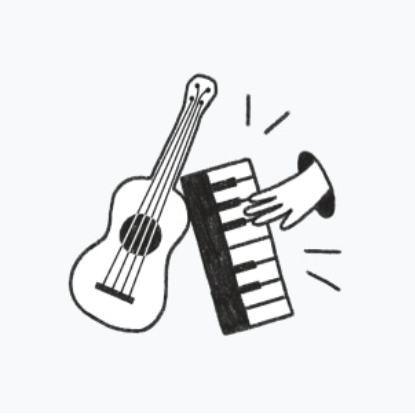
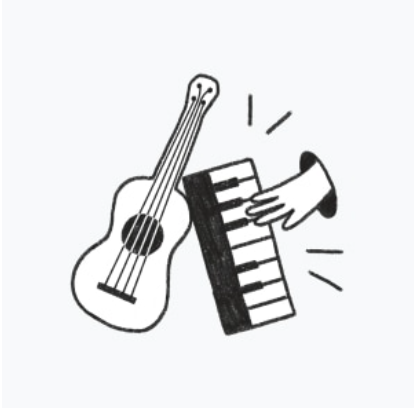
Commit

diff --git a/index.html b/index.html
@@ -277,36 +277,52 @@
           <div class="_container">
             <div class="row">
               <div class="_item col-md-3 col-sm-4 col-12">
-                <img src="images\top_catagories-design.png" alt="" />
+                <div class="img-hover-zoom">
+                  <img src="images\top_catagories-design.png" alt="" />
+                </div>
                 <p>Design</p>
               </div>
               <div class="_item col-md-3 col-sm-4 col-12">
-                <img src="images\top_catagories-development.png" alt="" />
+                <div class="img-hover-zoom">
+                  <img src="images\top_catagories-development.png" alt="" />
+                </div>
                 <p>Development</p>
               </div>
               <div class="_item col-md-3 col-sm-4 col-12">
-                <img src="images\top_catagories-marketing.png" alt="" />
+                <div class="img-hover-zoom">
+                  <img src="images\top_catagories-marketing.png" alt="" />
+                </div>
                 <p>Marketing</p>
               </div>
               <div class="_item col-md-3 col-sm-4 col-12">
-                <img src="images\top_catagories-IT.png" alt="" />
+                <div class="img-hover-zoom">
+                  <img src="images\top_catagories-IT.png" alt="" />
+                </div>
                 <p>IT and Software</p>
               </div>
 
               <div class="_item col-md-3 col-sm-4 col-12">
-                <img src="images\top_catagories-personal_dev.png" alt="" />
+                <div class="img-hover-zoom">
+                  <img src="images\top_catagories-personal_dev.png" alt="" />
+                </div>
                 <p>Personal Development</p>
               </div>
               <div class="_item col-md-3 col-sm-4 col-12">
-                <img src="images\top_catagories-business.png" alt="" />
+                <div class="img-hover-zoom">
+                  <img src="images\top_catagories-business.png" alt="" />
+                </div>
                 <p>Business</p>
               </div>
               <div class="_item col-md-3 col-sm-4 col-12">
-                <img src="images\top_catagories-photography.png" alt="" />
+                <div class="img-hover-zoom">
+                  <img src="images\top_catagories-photography.png" alt="" />
+                </div>
                 <p>Photography</p>
               </div>
               <div class="_item col-md-3 col-sm-4 col-12">
-                <img src="images\top_catagories-music.png" alt="" />
+                <div class="img-hover-zoom">
+                  <img src="images\top_catagories-music.png" alt="" />
+                </div>
                 <p>Music</p>
               </div>
             </div>

diff --git a/my-css.css b/my-css.css
@@ -294,7 +294,17 @@ justify-content: center;
 
 .row img{
   width: 100%;
-  max-width: 450px;
+  cursor: pointer;
+  /* height: auto; */
+}
+.img-hover-zoom{
+  overflow: hidden;
+}
+.img-hover-zoom img {
+  transition: transform .5s ease;
+}
+.img-hover-zoom:hover img {
+  transform: scale(1.1);
 }
 .top-categories p{
   font-weight: 600;
